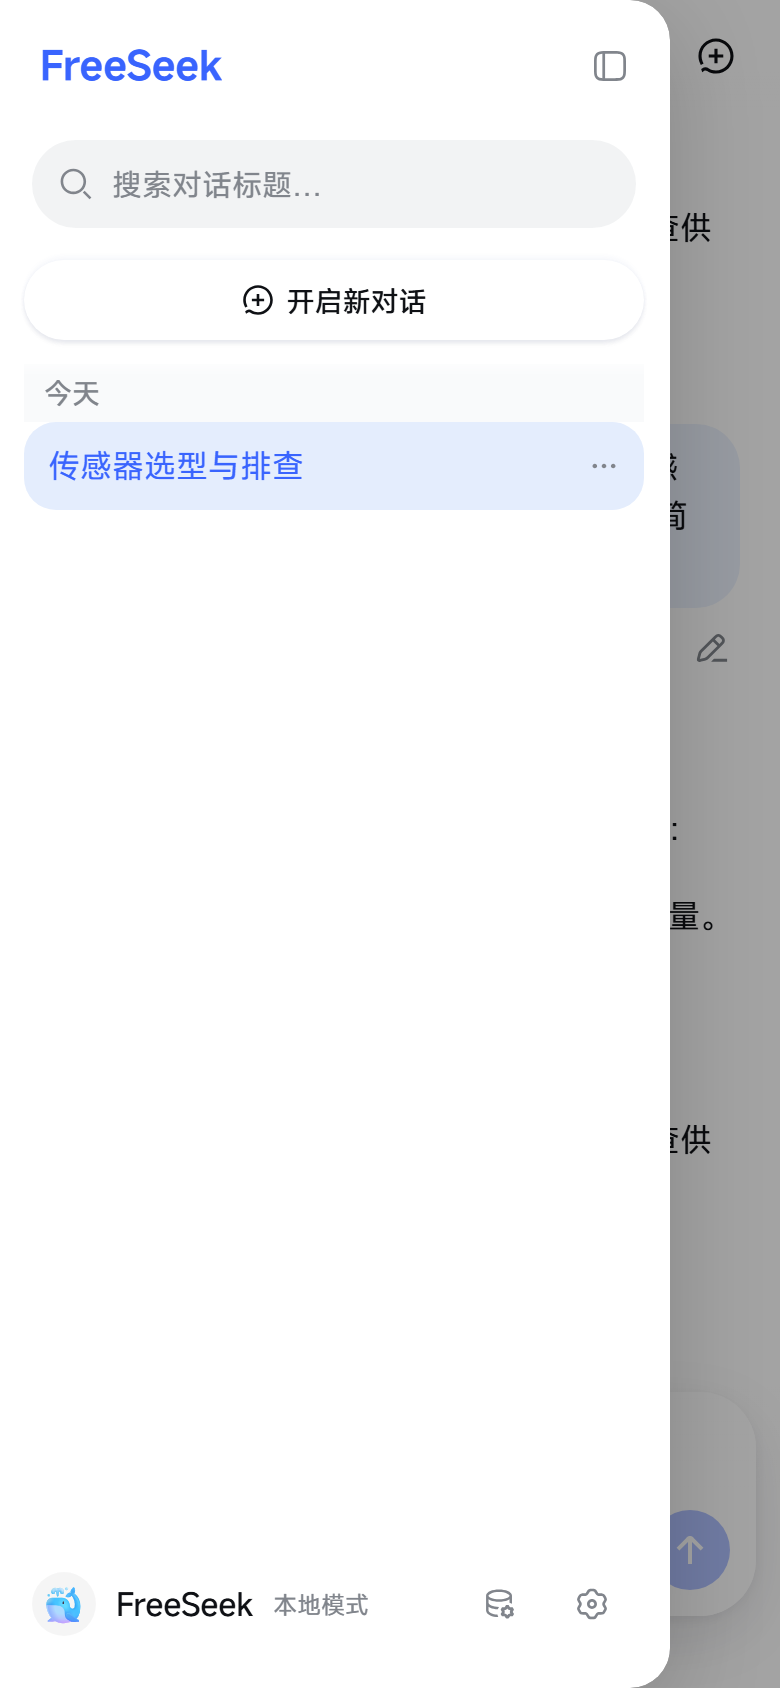
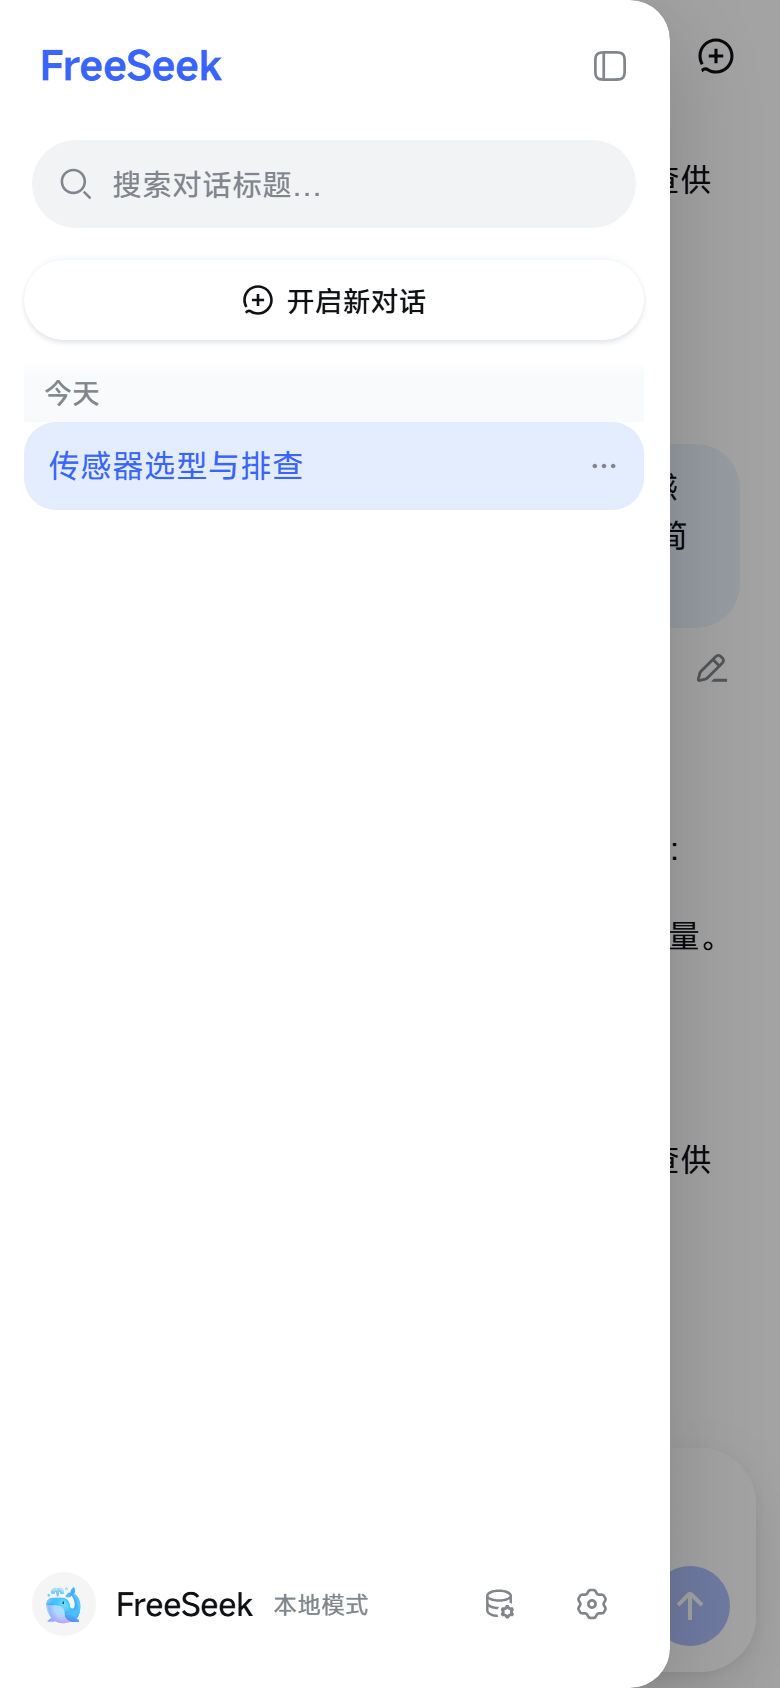
feat(v1.1.9): floating composer over messages, remove AI caveat, glass mobile title

diff --git a/src/components/session/SessionView.module.css b/src/components/session/SessionView.module.css
@@ -5,6 +5,8 @@
   flex-direction: column;
   /* 顶部悬浮栏高度：消息列表以此为上边距，滚动时内容从栏下穿过 */
   --message-list-top-inset: 68px;
+  /* 底部悬浮输入栏预留：最后一条消息能滚到栏边 */
+  --composer-inset: 150px;
   animation: pageIn var(--fs-duration-base) var(--fs-ease-out) both;
 }
 
@@ -146,22 +148,22 @@
   white-space: nowrap;
 }
 
-.inputContainer {
-  position: sticky;
+/* 悬浮输入栏：覆盖在消息列表之上，内容从栏底穿过（玻璃自身模糊） */
+.dock {
+  position: absolute;
+  left: 0;
+  right: 0;
   bottom: 0;
-  z-index: 10;
+  z-index: 25;
   display: flex;
   flex-direction: column;
   align-items: center;
-  box-sizing: border-box;
-  width: calc(var(--message-list-max-width) - 48px);
-  max-width: calc(100% - 24px);
-  margin: auto auto 0;
-  padding: 8px 0 calc(var(--fs-safe-bottom) + 10px);
+  padding: 20px 12px calc(var(--fs-safe-bottom) + 10px);
+  pointer-events: none;
   background: linear-gradient(
     to bottom,
     rgba(255, 255, 255, 0) 0%,
-    var(--dsw-alias-bg-base) 34%,
+    var(--dsw-alias-bg-base) 52%,
     var(--dsw-alias-bg-base) 100%
   );
 
@@ -169,34 +171,32 @@
     background: linear-gradient(
       to bottom,
       rgba(21, 21, 23, 0) 0%,
-      var(--dsw-alias-bg-base) 34%,
+      var(--dsw-alias-bg-base) 52%,
       var(--dsw-alias-bg-base) 100%
     );
   }
 }
 
+.dockInner {
+  width: min(calc(var(--message-list-max-width) - 48px), 100%);
+  pointer-events: auto;
+}
+
 .caveat {
-  width: 100%;
-  padding: 6px 0;
-  font-size: 11px;
-  line-height: 16px;
-  text-align: center;
-  color: var(--dsw-alias-label-tertiary);
-  user-select: none;
+  display: none;
 }
 
 @media not all and (min-width: 768px) {
   .view {
     --message-list-top-inset: calc(var(--fs-safe-top) + 58px);
+    --composer-inset: 168px;
   }
 
-  .inputContainer {
-    position: relative;
-    bottom: auto;
-    flex-shrink: 0;
+  .dock {
+    padding: 18px 12px calc(var(--fs-safe-bottom) + 8px);
+  }
+
+  .dockInner {
     width: 100%;
-    max-width: none;
-    margin: 0 auto;
-    padding: 4px 12px calc(var(--fs-safe-bottom) + 8px);
   }
 }

diff --git a/src/components/messages/MessageList.module.css b/src/components/messages/MessageList.module.css
@@ -13,7 +13,7 @@
 .toBottom {
   position: absolute;
   right: 20px;
-  bottom: 128px;
+  bottom: calc(var(--composer-inset, 150px) + 12px);
   z-index: 30;
   display: flex;
   align-items: center;
@@ -53,7 +53,7 @@
 @media not all and (min-width: 768px) {
   .toBottom {
     right: 16px;
-    bottom: 196px;
+    bottom: calc(var(--composer-inset, 168px) + 10px);
   }
 }
 
@@ -82,7 +82,7 @@
   width: calc(var(--message-list-max-width) - 2 * var(--message-list-padding-horizontal));
   max-width: calc(100% - 40px);
   margin: 0 auto;
-  /* 顶部悬浮栏高度；内容滚动时从栏下穿过 */
+  /* 顶部悬浮栏与底部输入栏均为覆盖层，内容可滚到栏边并从栏底穿过 */
   padding-top: var(--message-list-top-inset, 0px);
-  padding-bottom: 24px;
+  padding-bottom: var(--composer-inset, 150px);
 }

diff --git a/src/components/session/MobileHeader.module.css b/src/components/session/MobileHeader.module.css
@@ -57,10 +57,21 @@
 .title {
   flex: 1;
   min-width: 0;
-  margin: 0 12px;
+  margin: 0 6px;
+  padding: 6px 14px;
+  border-radius: 999px;
+  border: 1px solid rgba(255, 255, 255, 0.5);
+  background: rgba(255, 255, 255, 0.66);
+  backdrop-filter: blur(18px) saturate(1.35);
+  -webkit-backdrop-filter: blur(18px) saturate(1.35);
   overflow: hidden;
   white-space: nowrap;
   text-overflow: ellipsis;
   font: var(--dsw-font-s-strong-14);
   color: var(--dsw-alias-label-primary);
+
+  [data-ds-dark-theme] & {
+    border-color: rgba(255, 255, 255, 0.1);
+    background: rgba(38, 38, 40, 0.66);
+  }
 }

diff --git a/src/components/session/SessionView.tsx b/src/components/session/SessionView.tsx
@@ -89,13 +89,12 @@ export const SessionView = ({
         session={session}
         streaming={streaming}
         onScrolledChange={onScrolledChange}
-        footer={
-          <div className={styles.inputContainer}>
-            <ChatInput sessionId={session.id} />
-            <div className={styles.caveat}>{t('contentCaveat')}</div>
-          </div>
-        }
       />
+      <div className={styles.dock}>
+        <div className={styles.dockInner}>
+          <ChatInput sessionId={session.id} />
+        </div>
+      </div>
     </div>
   )
 }

diff --git a/src/components/messages/MessageList.tsx b/src/components/messages/MessageList.tsx
@@ -43,7 +43,7 @@ export const MessageList = ({
 }: {
   session: Session
   streaming: boolean
-  footer: React.ReactNode
+  footer?: React.ReactNode
   /** 滚动超过阈值时上报，供悬浮顶栏决定是否浮现渐隐 */
   onScrolledChange?: (scrolled: boolean) => void
 }) => {

diff --git a/CHANGELOG.md b/CHANGELOG.md
@@ -2,6 +2,12 @@
 
 本项目的所有重要变更都记录在这里。版本号遵循 [SemVer](https://semver.org/lang/zh-CN/)。
 
+## v1.1.9 — 2026-11-17
+
+- **输入栏真正悬浮**：输入栏改为覆盖在消息列表之上的独立层（不再占据列表布局空间），消息可滚动到栏边并从栏底穿过；底部预留加大，最后一条消息与操作按钮不会被遮住
+- **移除底部“内容由 AI 生成，请仔细甄别”提示**
+- 移动端标题改为玻璃胶囊，与浮动顶栏风格统一
+
 ## v1.1.8 — 2026-11-17
 
 完整重做用量统计（此前只有隐藏的小字，功能不完整）：
